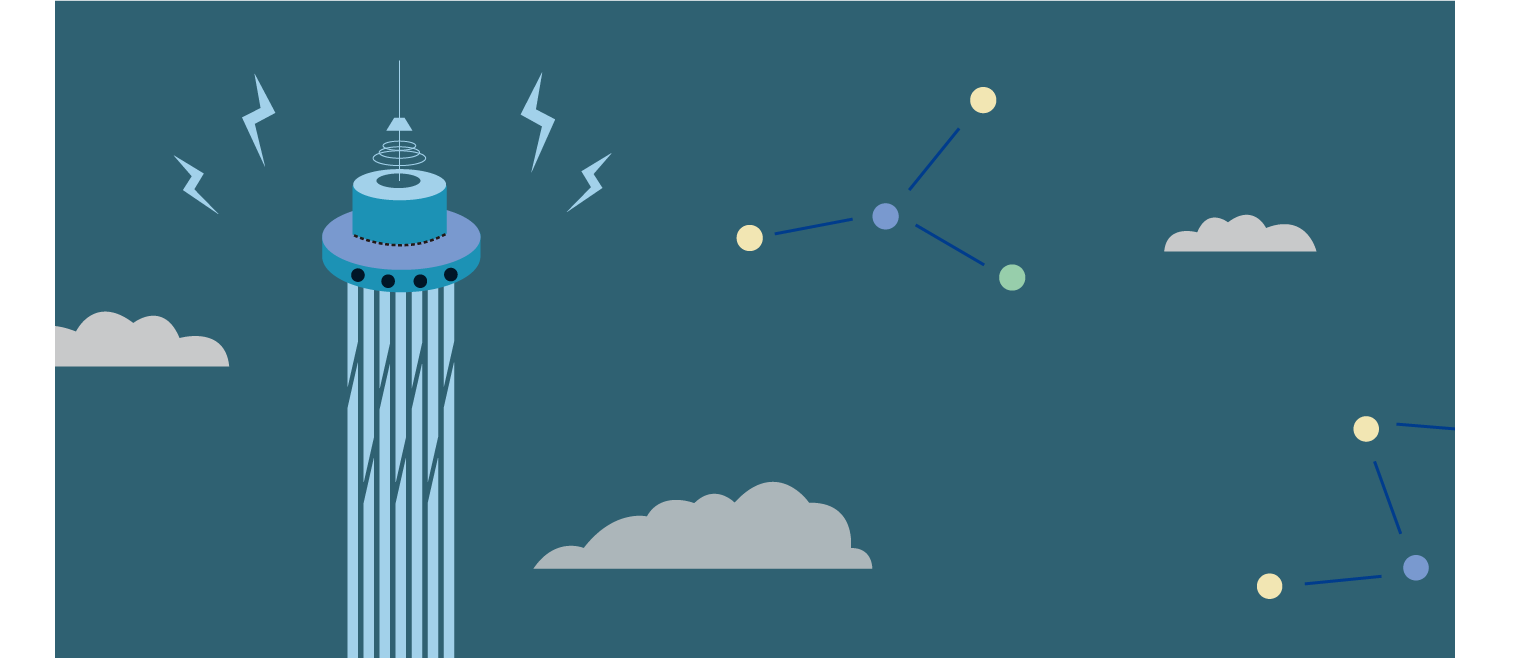
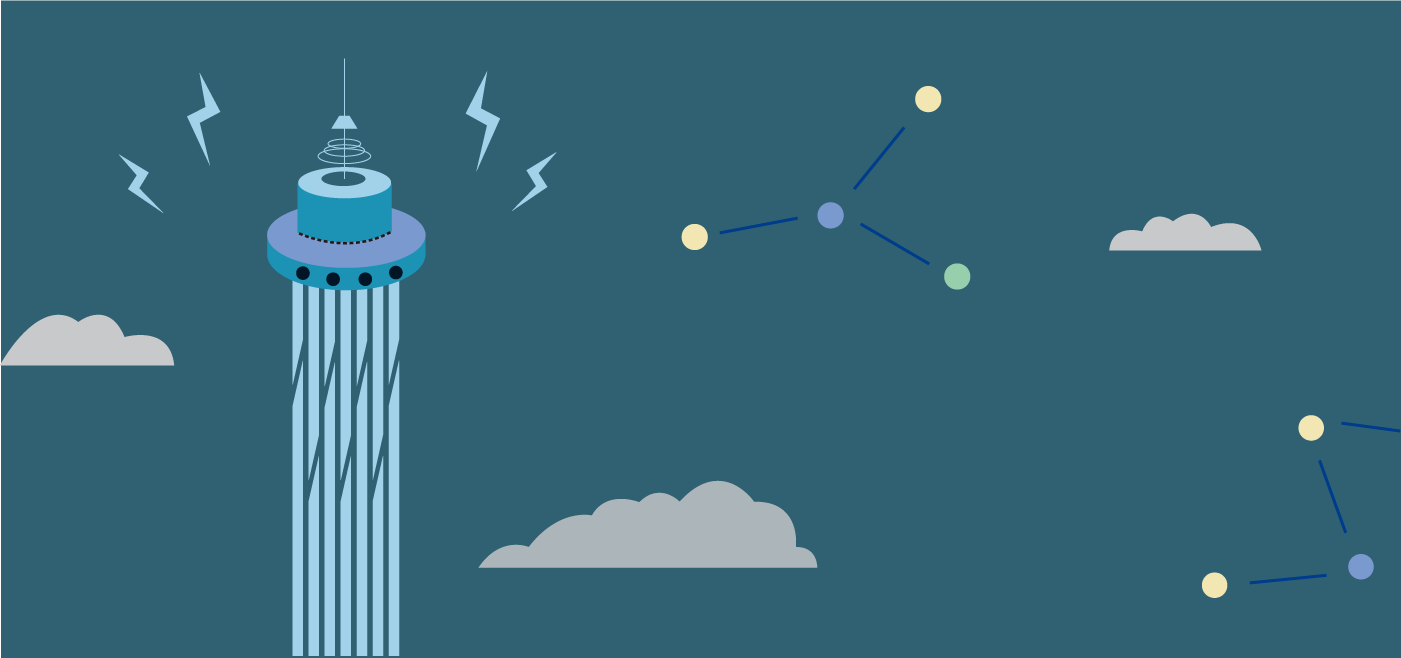
add temp-area pic3

diff --git a/index.html b/index.html
@@ -76,7 +76,7 @@
                         <a class="page-scroll" href="#div2">展覽區域介紹</a>
                     </li>
 					<li>
-                        <a class="page-scroll" href="#div7">ㄨㄟˊ？</a>
+                        <a class="page-scroll" href="#div7">ㄨㄟˊ？來玩城市</a>
                     </li>
 					<li>
                         <a class="page-scroll" href="#div8">活動時間與地點</a>
@@ -238,7 +238,7 @@
         <div class="container">
             <div class="row col-lg-12 col-sm-12 text-center">
 				<p><br></p>
-				<h1 class="section-heading   wow slideInLeft">ㄨㄟˊ？</h1>
+				<h1 class="section-heading   wow slideInLeft">ㄨㄟˊ？來玩城市</h1>
                 <hr class="primary">
 				
 				<br><br><br>

diff --git a/css/creative.css b/css/creative.css
@@ -268,7 +268,7 @@ color: #fff;
 
 .temp-section3 {
 
-	background-image: url(../img/header2.jpg);
+	background-image: url(../img/picture/ldpage3.png);
 
 }
 
